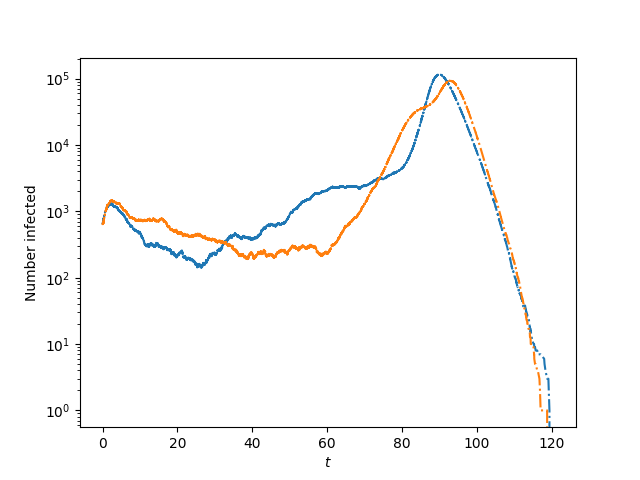
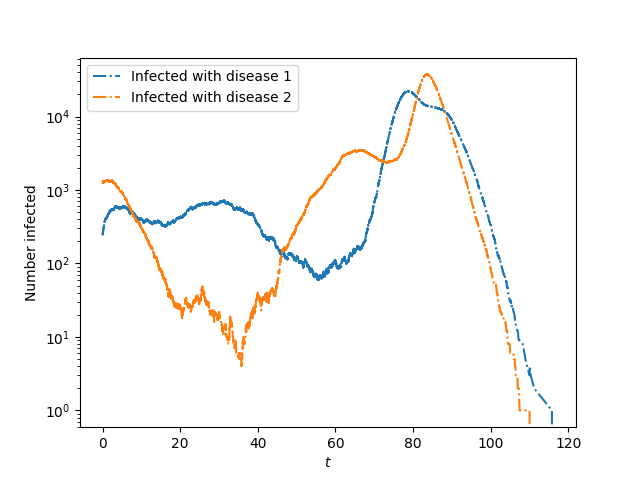
Improve paper's cooperative diseases figure and example.

diff --git a/docs/paper/paper.md b/docs/paper/paper.md
@@ -323,7 +323,7 @@ By default, it assumes there are no recovered individuals at time $0$.
 If the population has a Poisson degree distribution with mean ``kave`` and the 
 infection is introduced by randomly infecting a proportion $\rho$ of the population
 at time 0, then $\psi(x) = (1-\rho) e^{-\langle k\rangle (1-x)}$, 
-$\psi'(x) = (1-\rho)\langle k\rangle e^{-\langle k \rangle(1-x)}$
+$\ \psi'(x) = (1-\rho)\langle k\rangle e^{-\langle k \rangle(1-x)}$
 and $\phi_S(0) = 1-\rho$ where $\langle k \rangle$ denotes ``kave``.  So we have
 
 ```python
@@ -386,7 +386,9 @@ individual may only believe something if multiple partners believe it
 [@centola:cascade].  
 
 The simple and complex contagions are currently implemented only in a 
-Gillespie setting, and so they require Markovian assumptions.  
+Gillespie setting, and so they require Markovian assumptions.  Although they 
+are reasonably fast, it would typically be feasible to make a bespoke algorithm
+that runs significantly faster.
 
 ### Simple contagions
 
@@ -520,11 +522,11 @@ This produces a (stochastic) figure like
 ![](SEIR.png)
     
 Now we show two cooperative SIR diseases.  In isolation, each of these diseases
-would be unable to start an epidemic.  However, together they can, and depending
-on stochastic effects we can see some interesting osillatory behavior.
-
-To the best of  our knowledge, this oscillatory behavior has not been studied
-previously.
+would fail to start an epidemic.  However, together they can, and sometimes they
+exhibit interesting osillatory behavior.  To help stimulate the oscillations, we
+start with an asymmetric initial condition, though oscillations can be induced
+purely by stochastic effects for smaller initial conditions.  To the best of
+our knowledge, this oscillatory behavior has not been studied previously.
 
 ```python
 import EoN
@@ -532,7 +534,7 @@ import networkx as nx
 from collections import defaultdict
 import matplotlib.pyplot as plt
 
-N = 1000000
+N = 300000
 print('generating graph G with {} nodes'.format(N))
 G = nx.fast_gnp_random_graph(N, 5./(N-1))
 
@@ -546,34 +548,34 @@ H = nx.DiGraph()  #DiGraph showing spontaneous transitions (no interaction invol
 H.add_node('SS')  #we actually don't need to include the 'SS' node in H.
 H.add_edge('SI', 'SR', rate = 1)
 H.add_edge('IS', 'RS', rate = 1)
-H.add_edge('II', 'IR', rate = 1)
-H.add_edge('II', 'RI', rate = 1)
+H.add_edge('II', 'IR', rate = 0.5)
+H.add_edge('II', 'RI', rate = 0.5)
 H.add_edge('IR', 'RR', rate = 0.5)
 H.add_edge('RI', 'RR', rate = 0.5)
 
 #In the below the edge (('SI', 'SS'), ('SI', 'SI')) means an
 #'SI' individual connected to an 'SS' individual can lead to a transition in 
-#which the 'SS' individual becomes 'SI'.  The rate of this transition is 0.2.
+#which the 'SS' individual becomes 'SI'.  The rate of this transition is 0.18.
 #
 #Note that `IR` and `RI` individuals are more infectious than other 
 #individuals.
 #
 J = nx.DiGraph()    #DiGraph showing induced transitions (require interaction).
-J.add_edge(('SI', 'SS'), ('SI', 'SI'), rate = 0.2)
-J.add_edge(('SI', 'IS'), ('SI', 'II'), rate = 0.2)
-J.add_edge(('SI', 'RS'), ('SI', 'RI'), rate = 0.2)
-J.add_edge(('II', 'SS'), ('II', 'SI'), rate = 0.2)
-J.add_edge(('II', 'IS'), ('II', 'II'), rate = 0.2)
-J.add_edge(('II', 'RS'), ('II', 'RI'), rate = 0.2)
+J.add_edge(('SI', 'SS'), ('SI', 'SI'), rate = 0.18)
+J.add_edge(('SI', 'IS'), ('SI', 'II'), rate = 0.18)
+J.add_edge(('SI', 'RS'), ('SI', 'RI'), rate = 0.18)
+J.add_edge(('II', 'SS'), ('II', 'SI'), rate = 0.18)
+J.add_edge(('II', 'IS'), ('II', 'II'), rate = 0.18)
+J.add_edge(('II', 'RS'), ('II', 'RI'), rate = 0.18)
 J.add_edge(('RI', 'SS'), ('RI', 'SI'), rate = 1)
 J.add_edge(('RI', 'IS'), ('RI', 'II'), rate = 1)
 J.add_edge(('RI', 'RS'), ('RI', 'RI'), rate = 1)
-J.add_edge(('IS', 'SS'), ('IS', 'IS'), rate = 0.2)
-J.add_edge(('IS', 'SI'), ('IS', 'II'), rate = 0.2)
-J.add_edge(('IS', 'SR'), ('IS', 'IR'), rate = 0.2)
-J.add_edge(('II', 'SS'), ('II', 'IS'), rate = 0.2)
-J.add_edge(('II', 'SI'), ('II', 'II'), rate = 0.2)
-J.add_edge(('II', 'SR'), ('II', 'IR'), rate = 0.2)
+J.add_edge(('IS', 'SS'), ('IS', 'IS'), rate = 0.18)
+J.add_edge(('IS', 'SI'), ('IS', 'II'), rate = 0.18)
+J.add_edge(('IS', 'SR'), ('IS', 'IR'), rate = 0.18)
+J.add_edge(('II', 'SS'), ('II', 'IS'), rate = 0.18)
+J.add_edge(('II', 'SI'), ('II', 'II'), rate = 0.18)
+J.add_edge(('II', 'SR'), ('II', 'IR'), rate = 0.18)
 J.add_edge(('IR', 'SS'), ('IR', 'IS'), rate = 1)
 J.add_edge(('IR', 'SI'), ('IR', 'II'), rate = 1)
 J.add_edge(('IR', 'SR'), ('IR', 'IR'), rate = 1)
@@ -581,10 +583,12 @@ J.add_edge(('IR', 'SR'), ('IR', 'IR'), rate = 1)
 
 return_statuses = ('SS', 'SI', 'SR', 'IS', 'II', 'IR', 'RS', 'RI', 'RR')
 
-initial_size = 650
+initial_size = 250
 IC = defaultdict(lambda: 'SS')
 for individual in range(initial_size):
     IC[individual] = 'II'
+for individual in range(initial_size, 5*initial_size):
+    IC[individual] = 'SI'
 
 print('doing Gillespie simulation')
 t, SS, SI, SR, IS, II, IR, RS, RI, RR = EoN.Gillespie_simple_contagion(G, H, 
